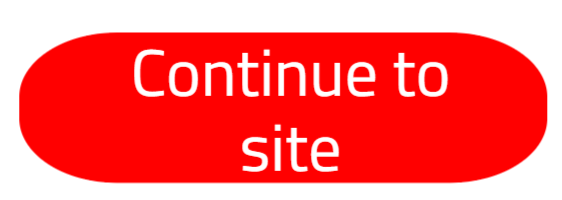
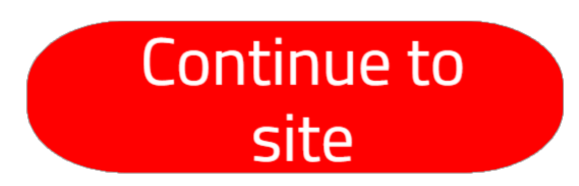
lastbutton

Changed region(s): [[0.0605, 0.1075, 0.9982, 0.672], [0.0302, 0.3226, 0.9377, 0.9409], [0.9377, 0.672, 0.968, 0.7796]]

diff --git a/client/public/css/welcome.css b/client/public/css/welcome.css
@@ -1,3 +1,11 @@
+body {
+    background-image: url('http://localhost:1337/img/loginback.jpg');
+    background-repeat: no-repeat;
+    background-attachment: fixed;
+    background-size: 100% 100%;
+    color: rgb(0, 0, 0);
+}
+
 h1{  
     position: fixed;
     top: 200px;
@@ -11,16 +19,25 @@ h1{
     -webkit-text-fill-color: transparent;
     }
     
-img{
-    position: absolute;
-    top: 100px;
-    size: 90%;
+#signin{
+    position: fixed;
+    top: 350px;
+    right: 275px;
+    width: auto;
+    height: 75px;
          }
-                
-body {
-    background-image: url('http://localhost:1337/img/loginback.jpg');
-    background-repeat: no-repeat;
-    background-attachment: fixed;
-    background-size: 100% 100%;
-    color: rgb(0, 0, 0);
+#signup{
+    position: fixed;
+    top: 575px;
+    right: 275px;
+    width: auto;
+    height:72px;
+         }
+#Continue{
+    position: fixed;
+    top: 800px;
+    right: 275px;
+    width: auto;
+    height:72px;
 }
+                

diff --git a/client/views/index.html b/client/views/index.html
@@ -10,7 +10,21 @@
         <h1>Welcome to the Paddock</h1>
         
     </body>
-    <a href="http://localhost:1337/signin">
-        <img src="http://localhost:1337/img/signin.png" alt="Sign in">
+    <body>
+        <p>First Time on the Track?</p>
+
+    </body>
+    <body>
+        <p>Continue to Site Without an Account</p>
+    </body>
+    <a id="signin" href="http://localhost:1337/signin" >
+        <img id="signin" src="http://localhost:1337/img/signin.png" alt="Sign in">
         </a>
+    <a id="signup"href="http://localhost:1337/signup">
+        <img id="signup" src="http://localhost:1337/img/signupbtn.png" alt="Sign Up">
+        </a>
+    <a href="http://localhost:1337/Home">
+        <img id="Continue" src="http://localhost:1337/img/Continue.png" alt="Sign in">
+        </a>
+    
 </html>

diff --git a/server/app.js b/server/app.js
@@ -1,4 +1,4 @@
-//$ cd "C:\Users\grant\Documents\GitHub\Lab05-Bever"
+//cd "C:\Users\grant\Documents\GitHub\Lab05-Bever"
 const express = require('express');
 const app = express();
 app.get('/', function (req, res) {
